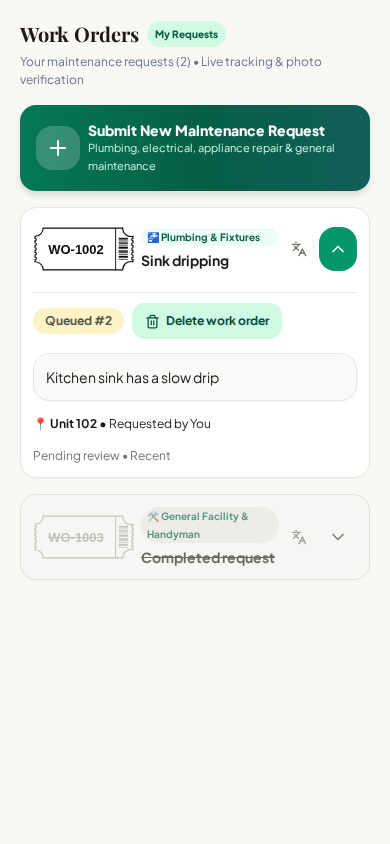
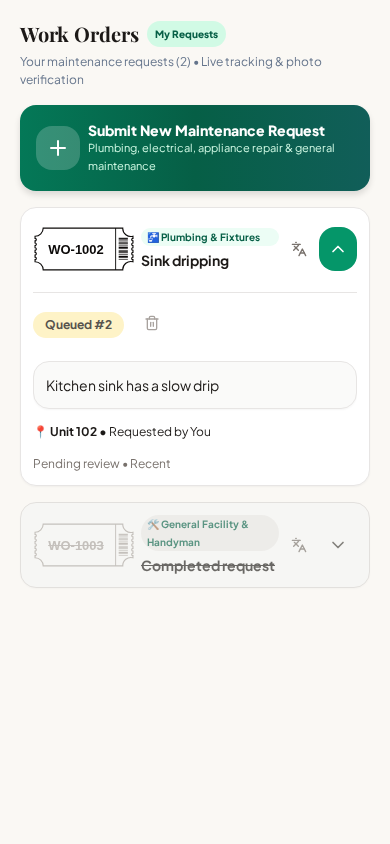
Checkpoint native tabs regression verification

diff --git a/native/TABS_REGRESSION_CHECKPOINT.md b/native/TABS_REGRESSION_CHECKPOINT.md
@@ -1,0 +1,44 @@
+# Work Orders and Social review checkpoint
+
+Review baseline: `4919a2b97b87b306efac41cf9d5d0879b82a7e73`, still available remotely as `checkpoint/news-review` and an ancestor of this branch. Upload-only newsletter correction: `feeb2b81be4aff2d1e6b09c6c5fd9a42db8907e4`.
+
+Stable milestones already pushed to `native/expo-migration`:
+
+- Work Orders: `d9ebcb2` — [scope, Firebase paths and acceptance](WORK_ORDERS_MIGRATION.md).
+- Social: `7308ff642d6d3da659309894c63e12a51c8acbe9` — [scope, Firebase paths and acceptance](SOCIAL_MIGRATION.md).
+- Final regression checkpoint: the commit containing this report. No additional feature changes follow the Social milestone.
+
+All migration changes since the review baseline are under `native/`. Main remains `a6567cdcbfaa578dd10a89b8c259a5650d5a0a76`, confirmed locally and on origin. Firebase configuration, authentication/approval architecture, four-tab order, schemas and rules remain unchanged. The previous untracked web lockfile remains safely stashed; it was not discarded or included in these commits. No production test records, demo routes or authentication bypass were introduced.
+
+## Completed validation
+
+| Check | Result |
+| --- | --- |
+| Native TypeScript | Pass |
+| Native lint | Pass |
+| Native tests | 33 pass; Home, News, auth/profile, Work Orders, Social, subscription cleanup, media gestures |
+| Expo dependency compatibility | Up to date |
+| Expo Doctor | 21/21 pass |
+| Android bundle export | Pass, final Social source |
+| iOS bundle export | Pass, final Social source |
+| Work Orders / Social action emulator | 30 pass against unchanged rules, including duplicate submission/comment/message guards, concurrency, role ownership, queue/status/proof, marketplace availability, inquiry/reply/read/leave |
+| News emulator regression | 28 pass: permission/concurrency/removal; existing resident RSVP denial confirmed |
+| Work Orders layout/interaction regression | 28 pass at 320/390/768 px |
+| Social layout/interaction regression | 40 pass at 320/390/768 px |
+| News layout/interaction regression | 16 pass at 320/390/768 px |
+| Uploaded-only newsletter states | 18 pass: uploaded/missing/removed/legacy metadata, resident/admin controls |
+| Home interaction regression | 7 flows pass: task add/complete/restart, medication add/take/undo/refill, December and January recurring reminders, calendar-to-checklist persistence, activity filters, dark appearance, 360 px dialog |
+| Home recurrence model | All 11 canonical rules preserved; 2026–2032 occurrences, year/month boundaries, leap day, fifth weekdays and DST pass |
+| Browser-only API inspection | No DOM, localStorage, browser navigation, import.meta or WebView in native runtime; intentional `.web` PDF stubs provide device-build guidance |
+| Listener cleanup | Late callbacks suppressed after unmount/account changes; Firestore, upload/auth, video listeners detach; video players dispose |
+| Regression isolation | Home/News runtime code and tab/auth/Firebase architecture unchanged from feeb2b8 |
+
+Visual checks use actual React Native components rendered through Expo's layout preview and actual unchanged web components with isolated fixture data. Committed screenshots are review evidence, not proof of device parity. Home tests used an isolated local resident namespace and mocked weather responses, not production resident data. Firebase suites use a disposable localhost demo-project emulator. Native build exports are JavaScript bundles, not signed APK/IPA packages.
+
+## Remaining acceptance and limits
+
+Test Android and iOS development builds with real existing resident/admin/crew accounts: live Firebase/Storage permissions, multi-device updates, camera/library denial and cancellation, interrupted uploads, native image/video gestures, keyboard resizing, back/close/share presentation, font scaling and screen readers, offline/reconnect and repeated taps. The native PDF module requires a development build; Expo Go/browser cannot validate it.
+
+Work Orders' reference local Spanish translator is implemented; secure server-assisted translation remains unavailable until authenticated `/api/translate` is deployed. Social functions are implemented, with existing device-local reaction membership retained. Ambiguous network acknowledgement of a reaction counter cannot be made exactly-once without a backend change. The unchanged marketplace chat rules do not enforce participant privacy on the server; see the Social report before release. Existing News Gemini-backend and resident RSVP permission limitations remain documented in NEWS_MIGRATION.md.
+
+No full-app visual-polish phase, unrelated general chat, notifications or additional screens were started. Stop at this checkpoint for user review.

diff --git a/native/verification/README.md b/native/verification/README.md
@@ -1,13 +1,18 @@
-# News verification
+# Native migration verification
 
-`npm test` runs News model/subscription tests together with existing Home/auth checks.
+`npm test` runs Home, News, auth/profile, Work Orders, Social, subscription and media-gesture tests. See [final tab regression results](../TABS_REGRESSION_CHECKPOINT.md) for the validated checkpoint and physical-device acceptance limits.
 
-`news-emulator.mjs` checks existing Firestore rules, concurrent attendance updates and live removal. Install `firebase-tools`, `@firebase/rules-unit-testing`, and `firebase` in a disposable directory, configure Firestore at 127.0.0.1:8885, and run:
+## Local Firebase suites
 
-```
+Install `firebase-tools`, `@firebase/rules-unit-testing`, `firebase` and `typescript` in a disposable directory. Configure Firestore at 127.0.0.1:8885 and run from that directory:
+
+```sh
 firebase emulators:exec --project demo-townloop-news --only firestore 'node /absolute/path/TownLoop/native/verification/news-emulator.mjs /absolute/path/disposable/package.json'
+firebase emulators:exec --project demo-townloop-news --only firestore 'node /absolute/path/TownLoop/native/verification/tabs-emulator.mjs /absolute/path/disposable/package.json --social'
 ```
 
-The script loads repository rules explicitly and uses no production credentials. Expected permission denials are assertions, not failed tests. The manager-only event-write restriction is an existing backend mismatch, not permission to widen production access.
+News has 28 checks. Tabs has 30 (13 Work Orders and 17 Social). Tabs loads the actual native action modules through TypeScript with an emulator-only approved-user adapter; Firebase writes use the real SDK and unchanged repository rules. Both scripts refuse remote emulator hosts, load rules explicitly and use no production credentials. Expected permission denials are assertions, not failed tests. The manager-only News event-write restriction is an existing backend mismatch, not permission to widen production access.
 
-Visual harnesses outside the app router import native NewsFeed and unchanged web NewsScreen with identical isolated fixtures. No authentication bypass, seeded production records or fixture routes are included in the app. Local review screenshots are under `/tmp/townloop-news-*`.
+## Visual and interaction checks
+
+External fixture harnesses import the actual native Home/News/Work Orders/Social components and unchanged web reference screens. No fixture routes, seeded production records or authentication bypass are included in the app. Screenshots in `screenshots/` capture review layouts; the new Social reference/native pairs use identical fixtures. Home reminder persistence checks use an isolated local resident namespace. Real Firebase/Storage and physical-device acceptance remain open as documented in the migration reports.

diff --git a/native/SOCIAL_MIGRATION.md b/native/SOCIAL_MIGRATION.md
@@ -6,7 +6,7 @@ The native Social tab follows the unchanged CommunityScreen, DiscussionFeed, Mar
 
 - Community heading, counted Discussion Feed and Buy / Sell / Free selectors, TownLoop post/listing cards, author/avatar/publication metadata, category, prices, availability, creator/moderator trash controls, inline comments and detail dialogs. Layout screenshots were compared with the actual web components at phone width; roles and layouts were checked at 320/390/768 px.
 - Live discussion posts, likes and comments; new post and new listing forms; price formatting; photo/video attachment picking and photo camera capture; progress, validation, error/retry and acknowledged success. Forms retain the mid-size/full-screen transition and staggered content opening. Publication ids and comment ids survive retries; submission locks prevent repeated taps.
-- Native detail reading, all attachments, native share sheet, image zoom/pan/pinch/double tap and video playback controls. Errors stay inside the active dialog; media opens independently and returns to its detail. Safe areas, keyboard handling, screen-reader labels and 44–48 point minimum controls are used.
+- Native detail reading, all attachments, native share sheet, image zoom/pan/pinch/double tap and video playback controls. Errors stay inside the active dialog; media opens independently and returns to its detail. Safe areas, keyboard handling, screen-reader labels and enlarged touch areas are used.
 - Marketplace seller actions: mark sold/available, delete with confirmation, seller inquiries with optional contact signature, sold-state protection. Resident/admin/VIP/crew visibility follows shared permissions. Ownership uses stable author uid, so same-name neighbors cannot acquire each other's controls.
 - Existing marketplace inbox: unread badge, searching, buyer/seller conversation details, replies/read state, view listing, leave/delete conversation, system messages and closed conversation behavior. Message ids persist on retry; drafts clear on conversation changes. This is marketplace messaging within Social, not a migration of unrelated general chat or notifications.
 - Firebase actions use fresh approved profiles, transactions and existing document fields. Concurrent comments/messages preserve earlier records. Own local reaction membership uses resident-isolated AsyncStorage; public totals remain in Firestore. Local save errors are visible and retry storage only, without repeating the acknowledged reaction.
